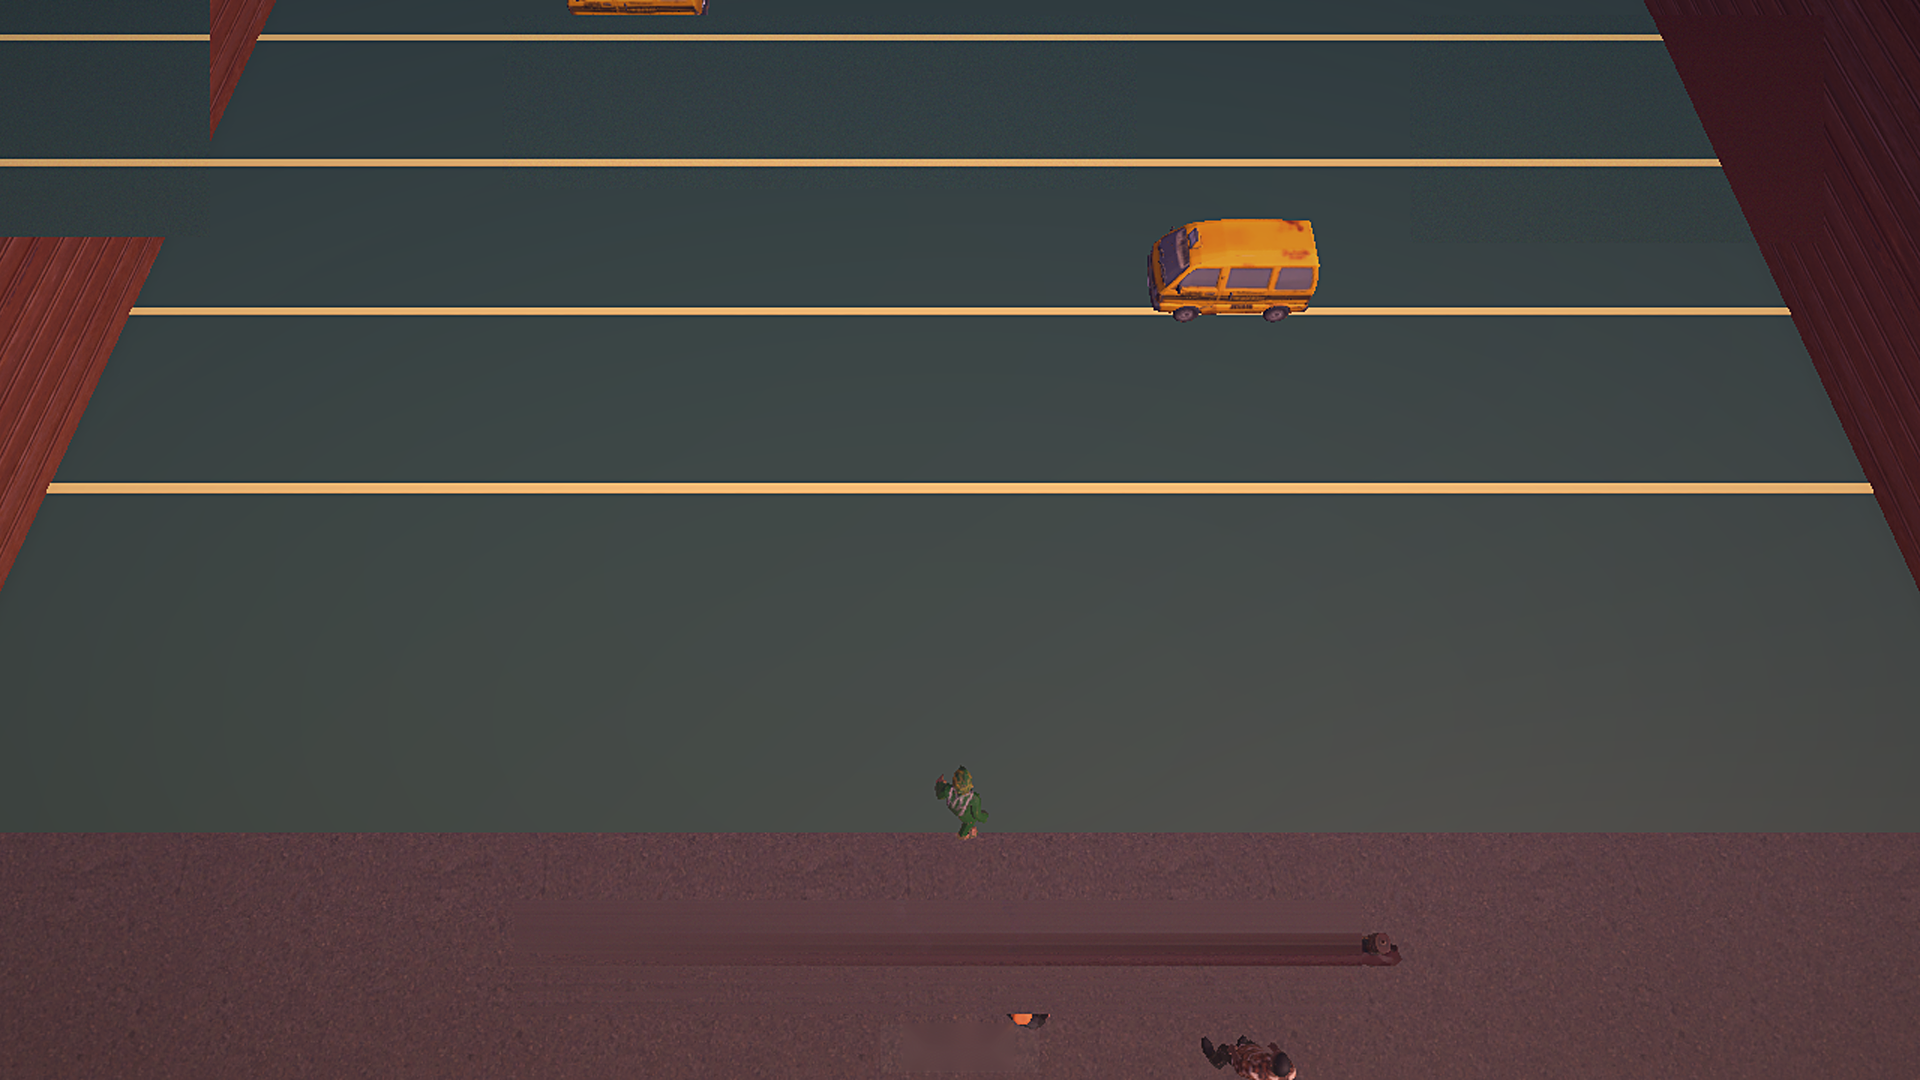
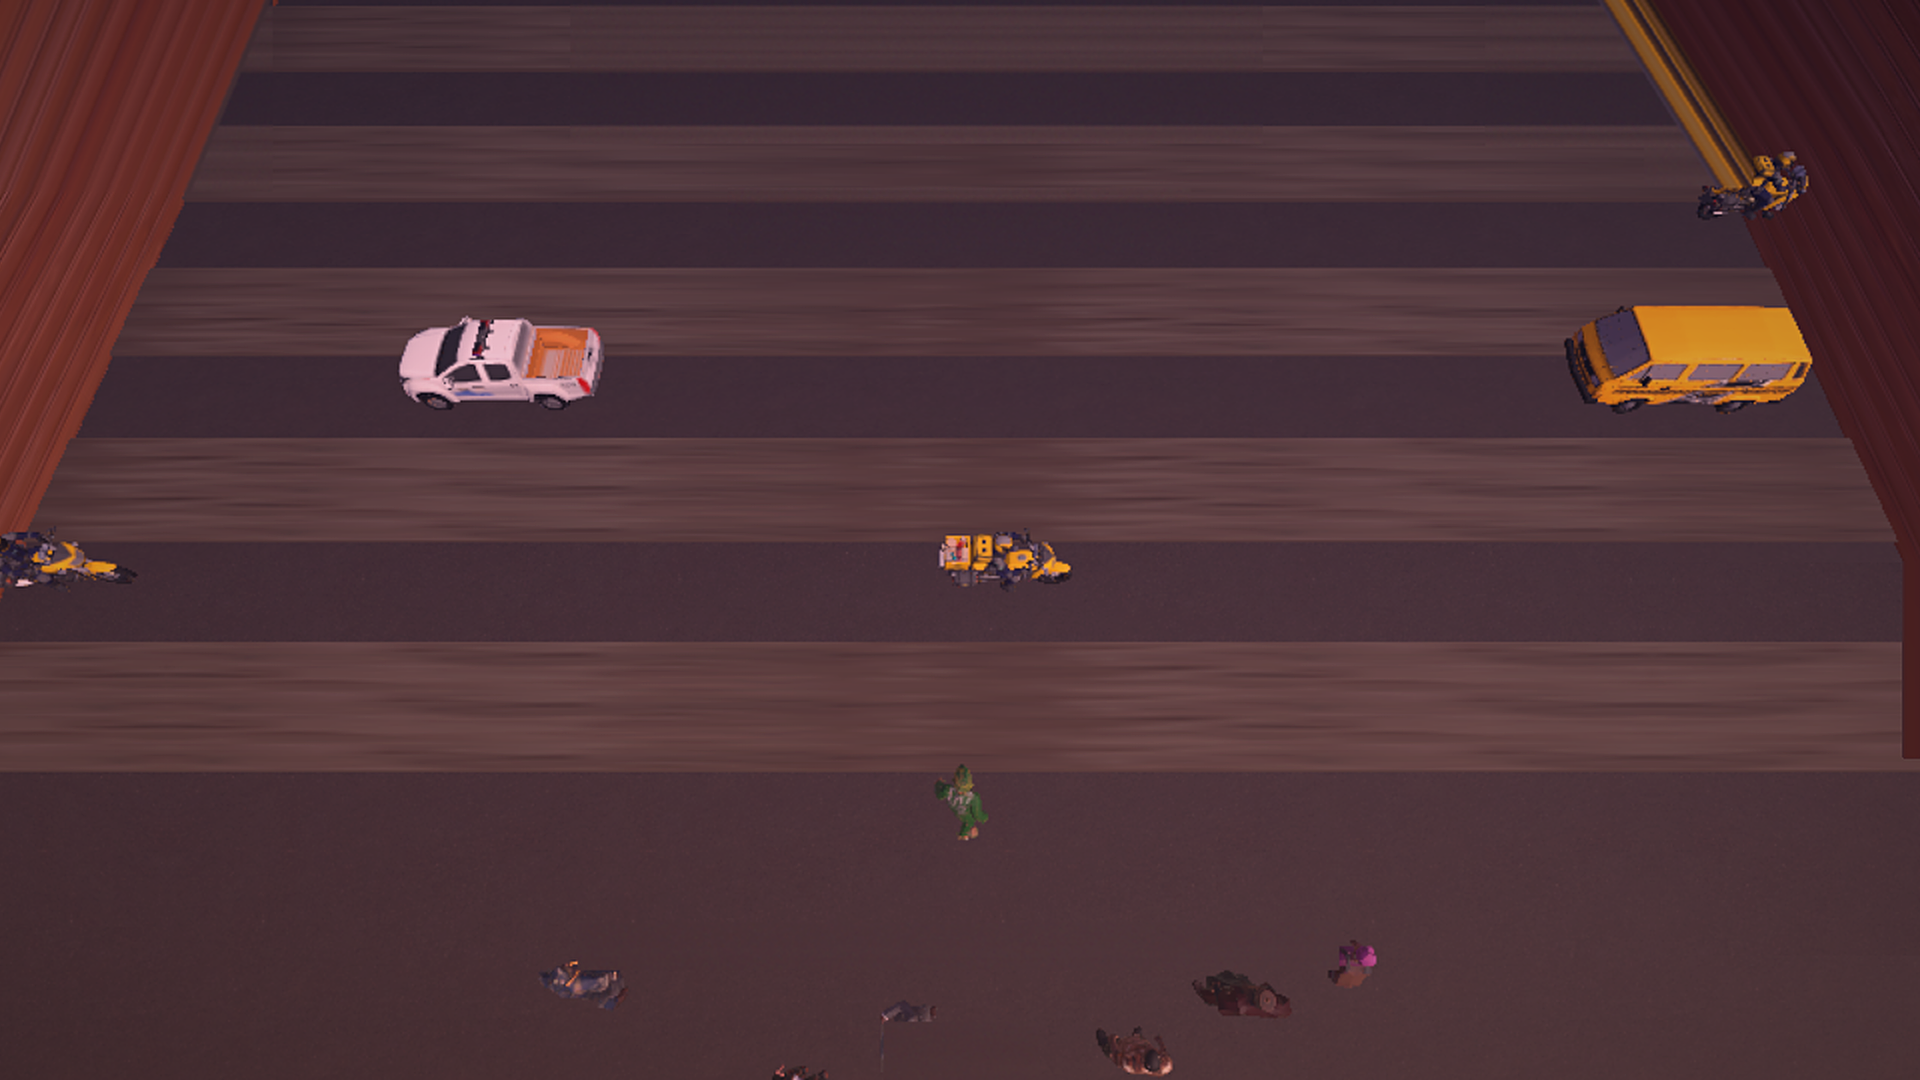
L10: recapture from fixed build, rebuild bg/card, re-shoot endless HUD + credits; note on broken-import L01-L09 shots

diff --git a/levels.html b/levels.html
@@ -1,4 +1,5 @@
 <!doctype html><html lang="en"><head><meta charset="utf-8"><meta name="viewport" content="width=device-width,initial-scale=1"><title>Gidi++ · Levels</title><link rel="stylesheet" href="css/site.css"><link rel="icon" href="logos/app/web/favicon.ico" sizes="any"><link rel="icon" type="image/png" href="logos/app/web/favicon-32.png"><link rel="apple-touch-icon" href="logos/app/web/apple-touch-icon.png"></head><body><nav><a class="brand" href="index.html"><img src="logos/wordmark_light.svg" alt="GIDI++" height="34"></a><a href="index.html">Brand</a><a href="guidelines.html">Guidelines</a><a href="palette.html">Palette</a><a href="typography.html">Typography</a><a href="icons.html">Icons</a><a href="logos.html">Logos & app icons</a><a href="screens.html">Screens</a><a href="levels.html" class=on>Levels</a><a href="characters.html">Characters</a><a href="souvenirs.html">Souvenirs & perks</a><a href="devices.html">Devices</a><small>Design system v1.0 · Oct 2026 · LANDSCAPE ONLY (RT-106)</small></nav><main><h1>Levels</h1><p class="lead">The ten-district Lagos campaign as authored in <code>LevelManager.CreateDefaultLevels</code> (mirrors <code>Resources/Campaign/LagosCampaign.asset</code>). Screenshots: current build, original camera, old HUD removed, dusk grade. Landscape only.</p>
+<div class="card dont"><b>Note on the screenshots:</b> the L01–L09 shots came from a broken import that was missing the danfo, keke, taxi, market lorry and Pure Water models, so those vehicles are missing from the shots, not absent from the game. Fresh captures are pending. L10 is a fresh capture from the fixed build (Oct 16).</div>
 <div class="lvgrid"><article class="lvcard" id="L1"><img loading="lazy" src="assets/bg/L01_card.jpg" alt="L1 Agege Bus Stop screenshot">
 <div class="lvb"><div class="lvh"><b>L1</b> Agege Bus Stop<span class="diff" title="relative difficulty">●○○○○</span></div>
 <div class="tags"><span>5 lanes</span><span>Day grade</span></div>

diff --git a/tools/prep_levels.py b/tools/prep_levels.py
@@ -74,8 +74,9 @@ def grade(bgr):
     return cv2.addWeighted(out, 1.45, blur, -0.45, 0)            # unsharp after 1.5x upscale
 
 def frame(img, W):
-    up = cv2.resize(img, (2400, 1080), interpolation=cv2.INTER_CUBIC)
-    x0 = (2400 - W) // 2
+    UW = round(img.shape[1] * 1080 / img.shape[0])  # keep aspect (1600x720 -> 2400; 1640x720 L10 -> 2460)
+    up = cv2.resize(img, (UW, 1080), interpolation=cv2.INTER_LANCZOS4)
+    x0 = (UW - W) // 2
     return up[:, x0:x0+W]
 
 USE = {"hud": "L05", "home": "L09", "shop": "L04", "gameover": "L05"}
@@ -90,11 +91,102 @@ if __name__ == "__main__":
             cv2.imwrite(f"{OUT}/lv_{key}_{name}.png", im)
     print(USE)
 
+# L10 recapture (fixed build, 1640x720, Oct 16). Dev-build HUD layout differs from L01-L09, so it has its own boxes.
+# Fill model: the walls are straight slanted lines; road pixels take the row median of visible road (lane stripes are
+# horizontal), wall pixels copy the wall texture at the same distance from the wall edge on the nearest clean row.
+L10_BOXES = [(60,0,362,128),(560,0,1022,96),(665,125,974,170),(1170,0,1432,98),(1276,96,1348,124),
+             (110,438,290,618),(1282,375,1545,637),(565,615,1073,647),(769,681,873,720),(1512,690,1640,720)]
+def clean_l10(local=True):
+    src = cv2.imread(f"{R}/reference/levels/L10.png"); H, W = src.shape[:2]
+    m = np.zeros((H,W), bool)
+    for (x0,y0,x1,y1) in L10_BOXES: m[y0:y1, x0:x1] = True
+    f = src.astype(np.int32); wall = (f[...,2] > 1.65 * f[...,1]) & (f[...,2] > 60)
+    ys, L, Rr = [], [], []
+    for y in range(0, H, 4):   # wall edges from clean rows: last wall px from left / first wall px from right
+        row = wall[y] & ~m[y]
+        l = np.where(row[:W//2])[0]; r = np.where(row[W//2:])[0]
+        if len(l) > 20 and len(r) > 20:
+            lx, rx = l.max(), W//2 + r.min()
+            if not m[y, max(0,lx-6):lx+8].any() and not m[y, max(0,rx-8):rx+6].any(): ys.append(y); L.append(lx); Rr.append(rx)
+    ys, L, Rr = map(np.array, (ys, L, Rr))
+    def _local(vals):   # local linear fit of the wall edge around each row (the edge bends near the top)
+        tab = {}
+        for y in range(H):
+            near = np.argsort(np.abs(ys - y))[:12]
+            tab[y] = np.polyval(np.polyfit(ys[near], vals[near], 1), y)
+        return tab
+    if local: fl, fr = _local(L), _local(Rr)
+    else:
+        gl, gr = np.polyfit(ys, L, 1), np.polyfit(ys, Rr, 1); fl = {y: np.polyval(gl, y) for y in range(H)}; fr = {y: np.polyval(gr, y) for y in range(H)}
+    edge = lambda c, y: int(round(c[int(np.clip(y, 0, H-1))]))
+    out = src.copy(); rng = np.random.default_rng(10)
+    clean_rows = [y for y in range(H) if (~m[y]).sum() > W*0.6]
+    for y in range(H):
+        if not m[y].any(): continue
+        el, er = edge(fl, y), edge(fr, y)
+        road = (~m[y]) & (np.arange(W) > el+3) & (np.arange(W) < er-3)
+        px = src[y, road].astype(np.float32)
+        med = np.median(px, 0) if len(px) > 40 else None
+        if med is not None:   # drop objects (cars, peds) from the median estimate
+            keep = np.abs(px - med).sum(1) < 45
+            if keep.sum() > 30: med = np.median(px[keep], 0)
+        yy = min(clean_rows, key=lambda r: abs(r - y))
+        mx = np.where(m[y])[0]
+        # local road colour: nearest clean road pixels left/right of each masked run, blended across the run
+        runs = np.split(mx, np.where(np.diff(mx) > 1)[0] + 1)
+        locfill = {}
+        for rn in runs:
+            a0, a1 = rn[0], rn[-1]
+            lw = [x for x in range(max(el+3, a0-90, 0), a0) if road[x]]; rw = [x for x in range(a1+1, min(er-3, a1+91, W)) if road[x]]
+            cl = np.median(src[y, lw].astype(np.float32), 0) if len(lw) > 8 else None
+            cr = np.median(src[y, rw].astype(np.float32), 0) if len(rw) > 8 else None
+            if cl is None: cl = cr if cr is not None else med
+            if cr is None: cr = cl
+            for x in rn:
+                t = (x - a0) / max(1, a1 - a0); locfill[x] = None if cl is None else cl*(1-t) + cr*t
+        for x in mx:
+            if el+2 < x < er-2:
+                c = locfill.get(x)
+                if c is None: c = med if med is not None else src[yy, (el+er)//2].astype(np.float32)
+                out[y, x] = np.clip(c + rng.normal(0, 2.2, 3), 0, 255)
+            else:
+                left = x <= el+2; d = (el - x) if left else (x - er)
+                xs = (edge(fl, yy) - d) if left else (edge(fr, yy) + d)
+                y2 = yy
+                for k in range(1, 200):   # nearest row where the mirrored sample is clean
+                    for cand in (y-k, y+k):
+                        if 0 <= cand < H:
+                            xc = (edge(fl, cand) - d) if left else (edge(fr, cand) + d)
+                            if 0 <= xc < W and not m[cand, xc]: y2, xs = cand, xc; break
+                    else: continue
+                    break
+                out[y, x] = src[y2, int(np.clip(xs, 0, W-1))]
+    return cv2.GaussianBlur(out, (3,3), 0) * m[...,None] + src * (~m[...,None])
+
+def clean_l10_merged():
+    """Top boxes: local wall-edge fit (the edge bends near the top). Lower boxes: global straight-edge fit."""
+    a, b = clean_l10(True).astype(np.uint8), clean_l10(False).astype(np.uint8)
+    out = a.copy()
+    for (x0,y0,x1,y1) in L10_BOXES:
+        if y0 >= 300: out[y0:y1, x0:x1] = b[y0:y1, x0:x1]
+    # side control boxes: road pixels mirrored from the clean road just inside the box edge (keeps stripe grain)
+    src = cv2.imread(f"{R}/reference/levels/L10.png"); H, W = src.shape[:2]
+    f = src.astype(np.int32); wall = (f[...,2] > 1.65 * f[...,1]) & (f[...,2] > 60)
+    for (x0,y0,x1,y1) in L10_BOXES[5:7]:
+        leftbox = x0 < W/2
+        for y in range(y0, y1):
+            for x in range(x0, x1):
+                mx = 2*x1 - x + 2 if leftbox else 2*x0 - x - 2
+                if 0 <= mx < W and not wall[y, mx] and not wall[y, (x1+4) if leftbox else (x0-4)]:
+                    # only where the mirrored side is road and the road actually continues to this x (not past the wall)
+                    if not (b[y, x].astype(int)[2] > 1.65*b[y, x].astype(int)[1]): out[y, x] = src[y, mx]
+    return out
+
 def all_levels():
     """Every level L01-L10: cleaned + dusk grade (desktop/phone) and a 960x540 card thumbnail; plus blurred variants for menu screens."""
     for i in range(1, 11):
         lv = f"L{i:02d}"
-        try: c = clean(lv)
+        try: c = clean_l10_merged() if lv == "L10" else clean(lv)
         except Exception as e:
             print("fallback inpaint", lv, e); src = cv2.imread(f"{R}/reference/levels/{lv}.png")
             m = np.zeros(src.shape[:2], np.uint8)

diff --git a/tools/sections.py b/tools/sections.py
@@ -116,6 +116,7 @@ def levels():
 <tr><td>Spawn gap</td><td>{gap:+.2f} s offset{f" · lane speed ±{int(var*100)}%" if var else ""}{f" · luxury +{lux}" if lux else ""}</td></tr></table>
 <p>{LEVEL_NOTES[n]}</p><div class="pills">{pu}</div></div></article>'''
     return f'''<h1>Levels</h1><p class="lead">The ten-district Lagos campaign as authored in <code>LevelManager.CreateDefaultLevels</code> (mirrors <code>Resources/Campaign/LagosCampaign.asset</code>). Screenshots: current build, original camera, old HUD removed, dusk grade. Landscape only.</p>
+<div class="card dont"><b>Note on the screenshots:</b> the L01–L09 shots came from a broken import that was missing the danfo, keke, taxi, market lorry and Pure Water models, so those vehicles are missing from the shots, not absent from the game. Fresh captures are pending. L10 is a fresh capture from the fixed build (Oct 16).</div>
 <div class="lvgrid">{cards}</div>
 <p class="small">* Cruise = baseTrafficSpeed 12 × (1 + 0.12 × level index) × profile multiplier, before adaptive difficulty and luxury bonus (LevelManager.GetScaledTrafficSpeed). Difficulty dots are a design summary of lanes, speed and enforcement, not a code value. Pure Water follows the game, not the vision doc (Kehinde, Oct 16). Power-up unlocks per vision doc v2 §8 (Owa L2, Malta &amp; Pure Water L3, Change &amp; VIP Siren L5; new v2 items: Danfo Ride L4, Agbada Armour L6, Okada Dash L7, Gist Bomb L8). Prices, caps and unlocks per vision doc (Kehinde, Oct 16); game-side changes in G-Prototype PR #51. Stars / par times per level: <span class="badge">TBD</span> (not in code).</p>'''
 

diff --git a/reference/levels/README.md b/reference/levels/README.md
@@ -1,3 +1,5 @@
 # Level screenshots
 `L01.png`–`L10.png`: one capture per level from the current build (1600×720, original camera, old debug HUD visible). `L01b_curb.png` / `L01c_goal.png`: early greybox L1 captures. `L08_phone_landscape.jpg`: phone capture used to measure the touch-control positions.
 The design site uses cleaned and dusk-graded versions (`tools/prep_levels.py` → `assets/bg/`).
+
+**Note (Oct 16):** the L01–L09 shots came from a broken import that was missing the danfo, keke, taxi, market lorry and Pure Water models, so those vehicles are missing from the shots, not absent from the game. Fresh captures are pending. `L10.png` was recaptured from the fixed build (1640×720, dev HUD visible) and the site background rebuilt from it.
